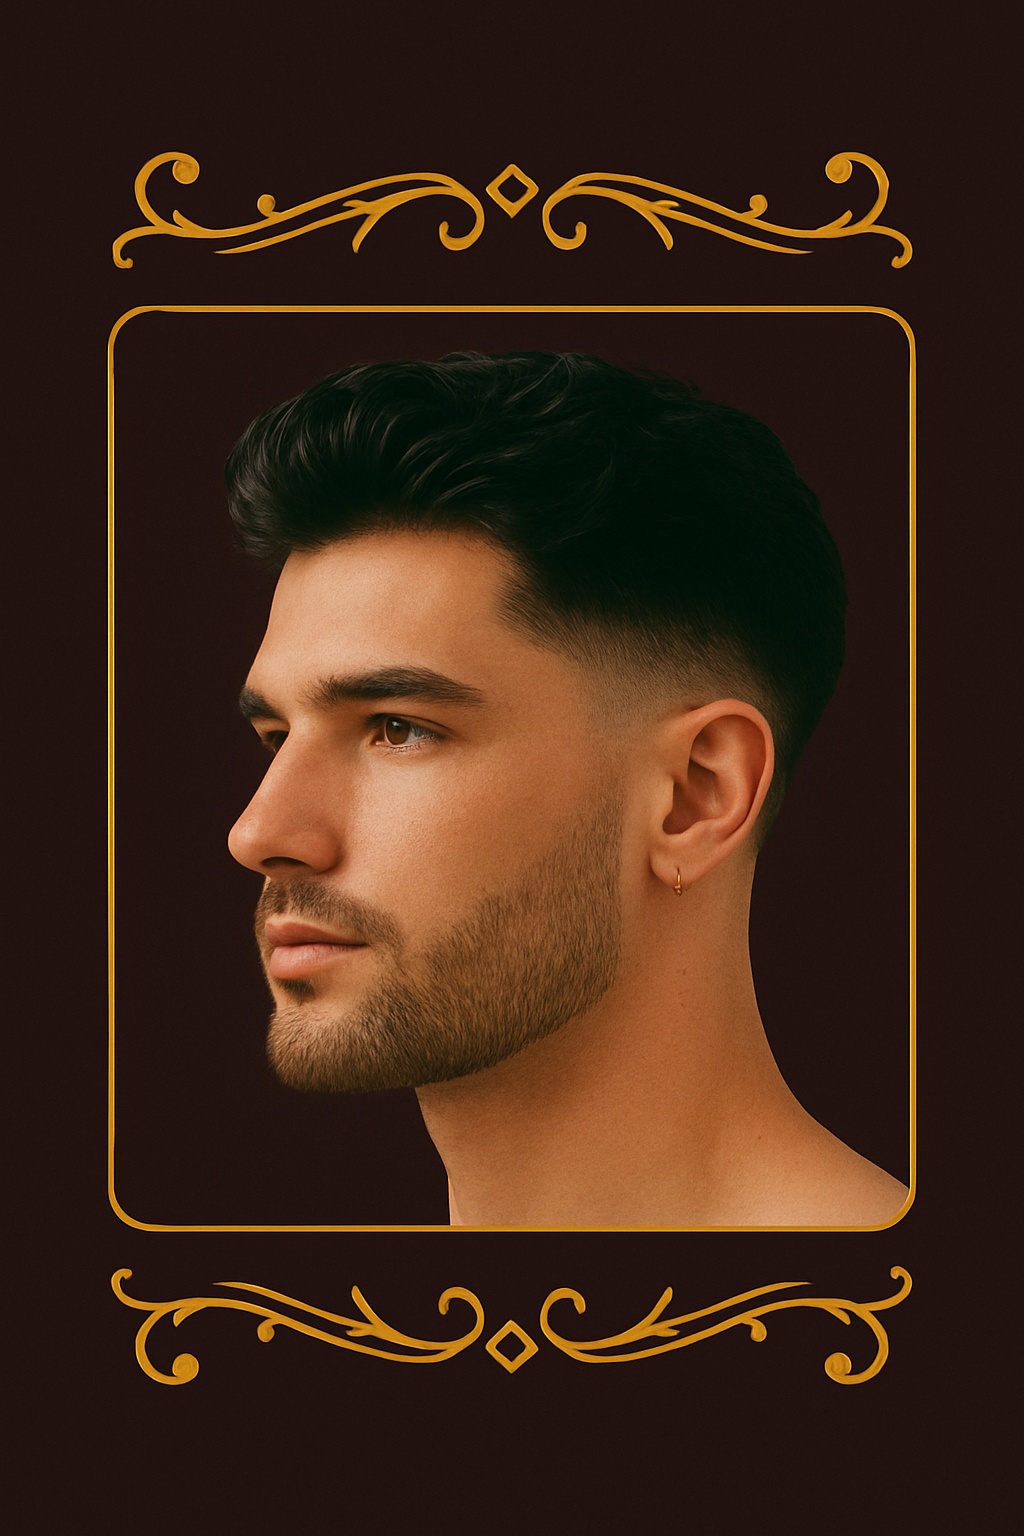
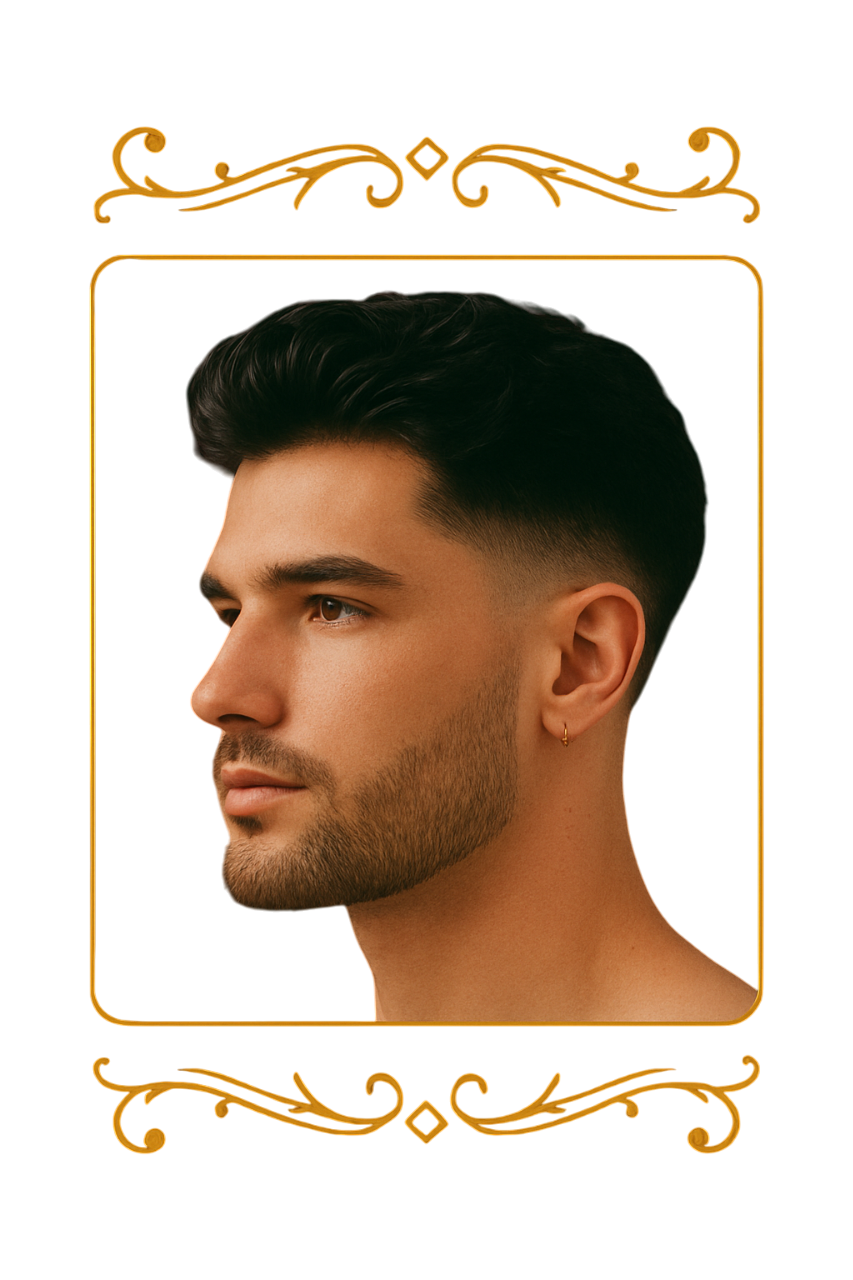
Alteração de fundo e alinhamento de texto

diff --git a/styles.css b/styles.css
@@ -15,6 +15,7 @@
 body {
     height: 100vh;
     background-color: var(--bg);
+    background-image: radial-gradient(circle at center,  #382020,#211111);
     color: var(--bege);
     box-sizing: border-box;
 }
@@ -36,11 +37,10 @@ body {
 .hero {
     flex: 1.2;
     display: flex;
-    justify-content: space-between;
 }
 
 .hero img {
-    width: 400px;
+    width: 100%;
     height: auto;
     border-radius: 12px;
     border: 3px solid var(--laranja);
@@ -50,6 +50,7 @@ body {
     font-family: "Quicksand", sans-serif;
     font-size: 42px;
     font-weight: 400;
+    text-wrap: nowrap;
 
 }
 
@@ -69,9 +70,18 @@ body {
     font-size: 24px;
 }
 
+.actions_text{
+    display: flex;
+    color: var(--bege);
+    justify-content: center;
+    font-family: "Quicksand", sans-serif;
+    font-size: 32px;
+}
+
+
 .actions {
     display: flex;
-    flex-direction: column;
+    flex-direction: row;
     justify-content: space-between;
     gap: 10px;
     align-items: center;
@@ -89,12 +99,7 @@ body {
     font-family: "Red Hat Display", sans-serif;
     font-weight: 900;
     font-size: 24px;
-    font-style: bold;
-}
-
-.actions_text{
-    font-family: "Quicksand", sans-serif;
-    font-size: 32px;
+    
 }
 
 .site-footer {
@@ -104,5 +109,4 @@ body {
     font-family: "Red Hat Display", sans-serif;
     font-weight: 900;
     font-size: 24px;
-    font-style: bold;
 }

diff --git a/index.html b/index.html
@@ -27,9 +27,10 @@
             <p class="intro__text1">Não importa se é aquele corte básico pra manter a firmeza ou algo mais ousado pra
                 mudar o visual.
                 O foco é sempre deixar o cabelo alinhado e o cliente satisfeito.</p>
+            
+                <h2 class="actions_text">Marque um horário!</h2>
 
             <div class="actions">
-                <h2 class="actions_text">Marque um horário!</h2>
                 <a class="btn" href="https://www.instagram.com/rodrigues_gabriel051/" target="_blank"
                     rel="noopener noreferrer">Instagram</a>
                 <a class="btn" href="https://wa.link/tyi17g" target="_blank" rel="noopener noreferrer">WhatsApp</a>
